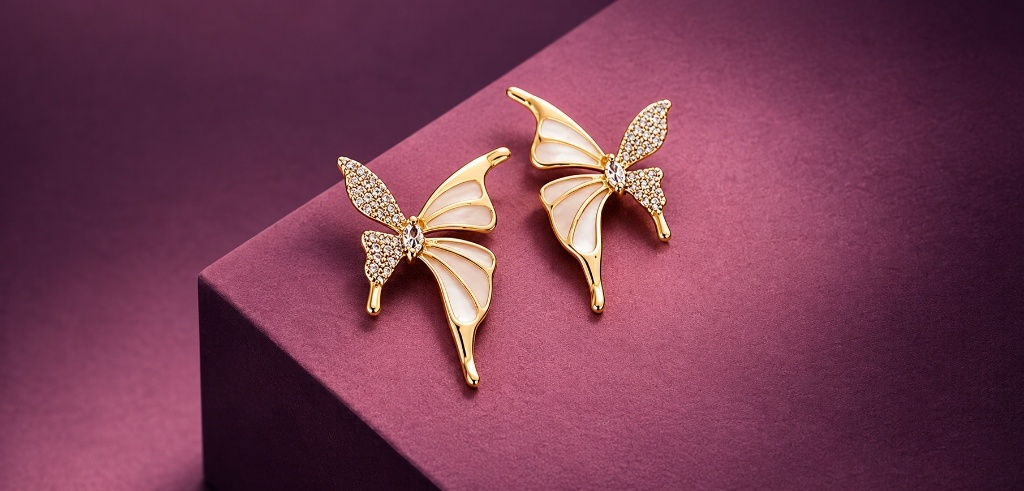
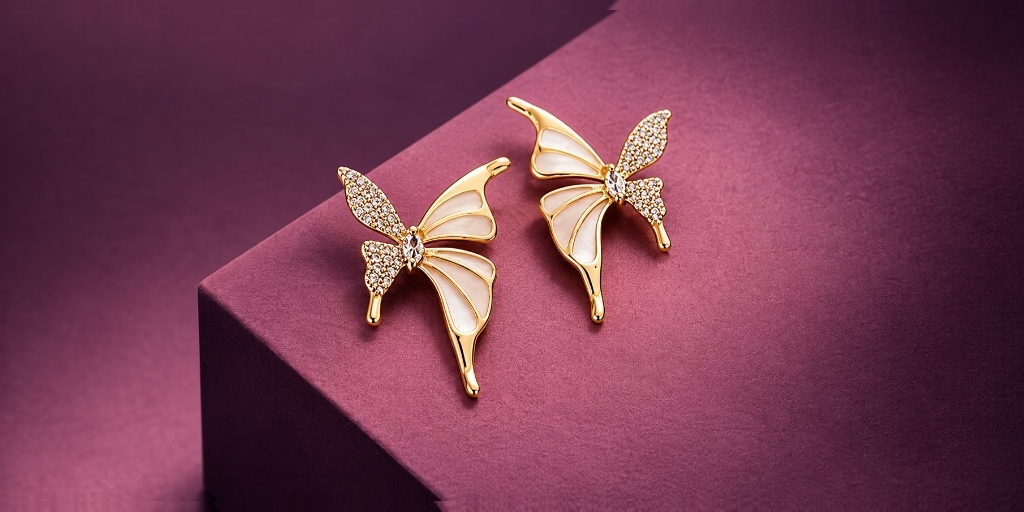
4th nov

diff --git a/frontend/components/home/HomeCategoryBannerGrid.tsx b/frontend/components/home/HomeCategoryBannerGrid.tsx
@@ -3,7 +3,6 @@
 import React from 'react';
 import Image from 'next/image';
 import Link from 'next/link';
-import { motion } from 'framer-motion';
 
 interface BannerCard {
   id: string;
@@ -23,16 +22,16 @@ const ANTI_TARNISH_CARDS: BannerCard[] = [
     imageSrc: '/images/anti_tarnish/banner_ethnic_ad.jpg',
     labelPosition: 'bottom-right',
     showNativeLabel: true,
-    alt: 'Ethnic American Diamond Anti-Tarnish Jewelry',
+    alt: 'Ethnic American Diamond Anti-Tarnish Jewelry Set',
   },
   {
     id: 'anti-kashmiri',
     title: 'KASHMIRI EARRINGS',
     href: '/products?category=AntiTarnish&subcategory=OxidizedEarrings',
-    imageSrc: '/images/anti_tarnish/banner_kashmiri_earrings_clean.jpg',
+    imageSrc: '/images/anti_tarnish/banner_kashmiri_earrings.jpg',
     labelPosition: 'bottom-left',
     showNativeLabel: true,
-    alt: 'Kashmiri Style Drop & Dangle Earrings',
+    alt: 'Kashmiri Style Drop & Dangle Traditional Earrings',
   },
   {
     id: 'anti-earrings',
@@ -86,11 +85,11 @@ const PURE_SILVER_CARDS: BannerCard[] = [
 
 export const HomeCategoryBannerGrid: React.FC = () => {
   return (
-    <div className="w-full max-w-6xl mx-auto space-y-10 sm:space-y-14 select-none">
+    <div className="w-full max-w-6xl mx-auto space-y-8 sm:space-y-12 select-none">
       {/* ═══════════════════════════════════════════════════════
           SECTION 1: ANTI - TARNISH (2x2 Grid from Image 1)
           ═══════════════════════════════════════════════════════ */}
-      <div className="space-y-4 sm:space-y-5">
+      <div className="space-y-3.5 sm:space-y-5">
         {/* Native Section Heading */}
         <div className="text-center">
           <Link
@@ -105,7 +104,7 @@ export const HomeCategoryBannerGrid: React.FC = () => {
           </Link>
         </div>
 
-        {/* 2x2 Grid */}
+        {/* 2x2 Grid with aspect-[2.05/1] for zoomed-out fully visible jewelry */}
         <div className="grid grid-cols-2 gap-2.5 sm:gap-4 md:gap-5">
           {ANTI_TARNISH_CARDS.map((card) => {
             const positionClasses = {
@@ -119,21 +118,21 @@ export const HomeCategoryBannerGrid: React.FC = () => {
               <Link
                 key={card.id}
                 href={card.href}
-                className="group relative block w-full h-[140px] sm:h-[200px] md:h-[240px] lg:h-[270px] rounded-xl sm:rounded-2xl overflow-hidden shadow-md hover:shadow-xl transition-all duration-300 border border-neutral-200/80 dark:border-neutral-800 focus:outline-none focus:ring-2 focus:ring-black dark:focus:ring-white cursor-pointer"
+                className="group relative block w-full h-[160px] sm:h-[210px] md:h-[250px] rounded-xl sm:rounded-2xl overflow-hidden shadow-md hover:shadow-xl transition-all duration-300 border border-neutral-200/80 dark:border-neutral-800 focus:outline-none focus:ring-2 focus:ring-black dark:focus:ring-white cursor-pointer bg-neutral-100 dark:bg-neutral-900"
               >
-                {/* Background Image */}
+                {/* Background Image - Object-cover with exact 2.05:1 aspect ratio ensures 100% visible products without vertical crop */}
                 <Image
                   src={card.imageSrc}
                   alt={card.alt}
                   fill
                   sizes="(max-width: 640px) 50vw, (max-width: 1024px) 50vw, 600px"
-                  className="object-cover object-center transition-transform duration-700 ease-out group-hover:scale-105"
+                  className="object-cover object-center transition-transform duration-500 ease-out group-hover:scale-[1.02]"
                 />
 
-                {/* Gradient Scrim */}
-                <div className="absolute inset-0 bg-gradient-to-t from-black/40 via-transparent to-black/20 opacity-60 group-hover:opacity-80 transition-opacity duration-300" />
+                {/* Subtle Gradient Overlay */}
+                <div className="absolute inset-0 bg-gradient-to-t from-black/25 via-transparent to-black/10 opacity-50 group-hover:opacity-75 transition-opacity duration-300" />
 
-                {/* Native Text Label */}
+                {/* Native Text Label (when image does not have text baked in) */}
                 {card.showNativeLabel && (
                   <div className={`absolute z-10 ${positionClasses}`}>
                     <span className="inline-block font-sans font-bold text-[10px] sm:text-xs md:text-sm tracking-[0.25em] uppercase text-white drop-shadow-[0_2px_6px_rgba(0,0,0,0.85)] group-hover:text-amber-200 transition-colors duration-200">
@@ -143,7 +142,7 @@ export const HomeCategoryBannerGrid: React.FC = () => {
                 )}
 
                 {/* Hover Border Ring */}
-                <div className="absolute inset-0 rounded-xl sm:rounded-2xl border-2 border-transparent group-hover:border-white/40 transition-colors duration-300 pointer-events-none" />
+                <div className="absolute inset-0 rounded-xl sm:rounded-2xl border-2 border-transparent group-hover:border-white/50 transition-colors duration-300 pointer-events-none" />
               </Link>
             );
           })}
@@ -153,7 +152,7 @@ export const HomeCategoryBannerGrid: React.FC = () => {
       {/* ═══════════════════════════════════════════════════════
           SECTION 2: 925 PURE SILVER (3 Cards from Image 1, 2, 3, 4)
           ═══════════════════════════════════════════════════════ */}
-      <div className="space-y-4 sm:space-y-5">
+      <div className="space-y-3.5 sm:space-y-5">
         {/* Native Section Heading */}
         <div className="text-center">
           <Link
@@ -168,14 +167,14 @@ export const HomeCategoryBannerGrid: React.FC = () => {
           </Link>
         </div>
 
-        {/* 3-Column Grid for Bracelets, Necklace, Anklets */}
+        {/* 3-Column Grid for Bracelets, Necklace, Anklets with aspect-[3/4] */}
         <div className="grid grid-cols-3 gap-2 sm:gap-4 md:gap-5">
           {PURE_SILVER_CARDS.map((card) => {
             return (
               <Link
                 key={card.id}
                 href={card.href}
-                className="group relative block w-full aspect-[3/4] rounded-xl sm:rounded-2xl overflow-hidden shadow-md hover:shadow-xl transition-all duration-300 border border-neutral-200/80 dark:border-neutral-800 focus:outline-none focus:ring-2 focus:ring-black dark:focus:ring-white cursor-pointer"
+                className="group relative block w-full aspect-[3/4] rounded-xl sm:rounded-2xl overflow-hidden shadow-md hover:shadow-xl transition-all duration-300 border border-neutral-200/80 dark:border-neutral-800 focus:outline-none focus:ring-2 focus:ring-black dark:focus:ring-white cursor-pointer bg-neutral-100 dark:bg-neutral-900"
               >
                 {/* Background Image (High-Res Image 2, 3, 4) */}
                 <Image
@@ -183,11 +182,11 @@ export const HomeCategoryBannerGrid: React.FC = () => {
                   alt={card.alt}
                   fill
                   sizes="(max-width: 640px) 33vw, (max-width: 1024px) 33vw, 400px"
-                  className="object-cover object-center transition-transform duration-700 ease-out group-hover:scale-105"
+                  className="object-cover object-center transition-transform duration-500 ease-out group-hover:scale-[1.02]"
                 />
 
                 {/* Subtle Hover Overlay */}
-                <div className="absolute inset-0 bg-black/0 group-hover:bg-black/20 transition-colors duration-300" />
+                <div className="absolute inset-0 bg-black/0 group-hover:bg-black/15 transition-colors duration-300" />
 
                 {/* Hover Border Ring */}
                 <div className="absolute inset-0 rounded-xl sm:rounded-2xl border-2 border-transparent group-hover:border-white/50 transition-colors duration-300 pointer-events-none" />
@@ -201,4 +200,3 @@ export const HomeCategoryBannerGrid: React.FC = () => {
 };
 
 export default HomeCategoryBannerGrid;
-

diff --git a/frontend/components/AntiTarnishBannerGrid.tsx b/frontend/components/AntiTarnishBannerGrid.tsx
@@ -14,6 +14,7 @@ interface CategoryCardItem {
   subcategory: string;
   imageSrc: string;
   labelPosition: 'bottom-right' | 'bottom-left' | 'top-right' | 'top-left';
+  showNativeLabel: boolean;
   alt: string;
 }
 
@@ -24,15 +25,17 @@ const CATEGORY_CARDS: CategoryCardItem[] = [
     subcategory: 'American Diamonds',
     imageSrc: '/images/anti_tarnish/banner_ethnic_ad.jpg',
     labelPosition: 'bottom-right',
+    showNativeLabel: true,
     alt: 'Ethnic American Diamond Anti-Tarnish Necklace Set',
   },
   {
     id: 'kashmiri-card',
     label: 'KASHMIRI EARRINGS',
     subcategory: 'Oxidized Earrings',
-    imageSrc: '/images/anti_tarnish/banner_kashmiri_earrings_clean.jpg',
+    imageSrc: '/images/anti_tarnish/banner_kashmiri_earrings.jpg',
     labelPosition: 'bottom-left',
-    alt: 'Kashmiri Style Drop & Dangle Earrings',
+    showNativeLabel: true,
+    alt: 'Kashmiri Style Drop & Dangle Traditional Earrings',
   },
   {
     id: 'earrings-card',
@@ -40,7 +43,8 @@ const CATEGORY_CARDS: CategoryCardItem[] = [
     subcategory: 'Oxidized Earrings',
     imageSrc: '/images/anti_tarnish/banner_earrings.jpg',
     labelPosition: 'bottom-left',
-    alt: 'Anti-Tarnish Modern Earrings',
+    showNativeLabel: true,
+    alt: 'Anti-Tarnish Butterfly and Modern Earrings',
   },
   {
     id: 'oxidized-card',
@@ -48,6 +52,7 @@ const CATEGORY_CARDS: CategoryCardItem[] = [
     subcategory: 'Oxidized Earrings',
     imageSrc: '/images/anti_tarnish/banner_oxidized.jpg',
     labelPosition: 'top-right',
+    showNativeLabel: true,
     alt: 'Handcrafted Traditional Oxidized Silver Earrings',
   },
 ];
@@ -68,7 +73,7 @@ export const AntiTarnishBannerGrid: React.FC<AntiTarnishBannerGridProps> = ({
   };
 
   return (
-    <div className="w-full max-w-5xl mx-auto my-6 sm:my-8 space-y-4 sm:space-y-6">
+    <div className="w-full max-w-5xl mx-auto my-6 sm:my-8 space-y-4 sm:space-y-6 select-none">
       {/* ── 1. Top Promo Banner (Get Free Gifts on Order Above INR 299) ── */}
       <button
         type="button"
@@ -104,7 +109,7 @@ export const AntiTarnishBannerGrid: React.FC<AntiTarnishBannerGridProps> = ({
         <div className="h-px bg-neutral-300 dark:bg-neutral-700 w-12 sm:w-24" />
       </div>
 
-      {/* ── 3. 2x2 Grid of Category Card Buttons ── */}
+      {/* ── 3. 2x2 Grid of Category Card Buttons with aspect-[2.05/1] for zoomed-out jewelry ── */}
       <div className="grid grid-cols-2 gap-2.5 sm:gap-4 md:gap-5">
         {CATEGORY_CARDS.map((card) => {
           // Label position styles matching Image 1
@@ -122,32 +127,31 @@ export const AntiTarnishBannerGrid: React.FC<AntiTarnishBannerGridProps> = ({
               whileHover={{ scale: 1.015 }}
               whileTap={{ scale: 0.985 }}
               onClick={() => handleClick(card.subcategory)}
-              className="group relative w-full h-[140px] sm:h-[200px] md:h-[250px] rounded-xl sm:rounded-2xl overflow-hidden shadow-md hover:shadow-xl border border-neutral-200/80 dark:border-neutral-800 focus:outline-none focus:ring-2 focus:ring-black dark:focus:ring-white transition-all cursor-pointer text-left"
+              className="group relative w-full h-[160px] sm:h-[210px] md:h-[250px] rounded-xl sm:rounded-2xl overflow-hidden shadow-md hover:shadow-xl border border-neutral-200/80 dark:border-neutral-800 focus:outline-none focus:ring-2 focus:ring-black dark:focus:ring-white transition-all cursor-pointer text-left bg-neutral-100 dark:bg-neutral-900"
             >
-              {/* Background Image with Hover Zoom */}
+              {/* Background Image with subtle zoom that preserves jewelry visibility */}
               <Image
                 src={card.imageSrc}
                 alt={card.alt}
                 fill
-                sizes="(max-width: 640px) 100vw, 50vw"
-                className="object-cover object-center transition-transform duration-700 ease-out group-hover:scale-105"
+                sizes="(max-width: 640px) 50vw, (max-width: 1024px) 50vw, 600px"
+                className="object-cover object-center transition-transform duration-500 ease-out group-hover:scale-[1.02]"
               />
 
               {/* Gradient Scrim for Contrast & Elegance */}
-              <div className="absolute inset-0 bg-gradient-to-t from-black/45 via-transparent to-black/25 opacity-70 group-hover:opacity-85 transition-opacity duration-300" />
+              <div className="absolute inset-0 bg-gradient-to-t from-black/30 via-transparent to-black/10 opacity-50 group-hover:opacity-75 transition-opacity duration-300" />
 
               {/* Native Typography Label positioned like in reference image */}
-              <div className={`absolute z-10 ${positionClasses}`}>
-                <span className="inline-block font-sans font-bold text-xs sm:text-sm tracking-[0.25em] uppercase text-white drop-shadow-[0_2px_8px_rgba(0,0,0,0.85)] group-hover:text-amber-200 transition-colors duration-200">
-                  {card.label}
-                </span>
-                <span className="block text-[9px] uppercase tracking-widest text-neutral-300 font-mono opacity-0 group-hover:opacity-100 transition-opacity duration-200 mt-0.5">
-                  Explore Collection →
-                </span>
-              </div>
+              {card.showNativeLabel && (
+                <div className={`absolute z-10 ${positionClasses}`}>
+                  <span className="inline-block font-sans font-bold text-[10px] sm:text-xs md:text-sm tracking-[0.25em] uppercase text-white drop-shadow-[0_2px_6px_rgba(0,0,0,0.85)] group-hover:text-amber-200 transition-colors duration-200">
+                    {card.label}
+                  </span>
+                </div>
+              )}
 
               {/* Active / Hover Ring Highlight */}
-              <div className="absolute inset-0 rounded-2xl border-2 border-transparent group-hover:border-white/50 transition-colors duration-300 pointer-events-none" />
+              <div className="absolute inset-0 rounded-xl sm:rounded-2xl border-2 border-transparent group-hover:border-white/50 transition-colors duration-300 pointer-events-none" />
             </motion.button>
           );
         })}
